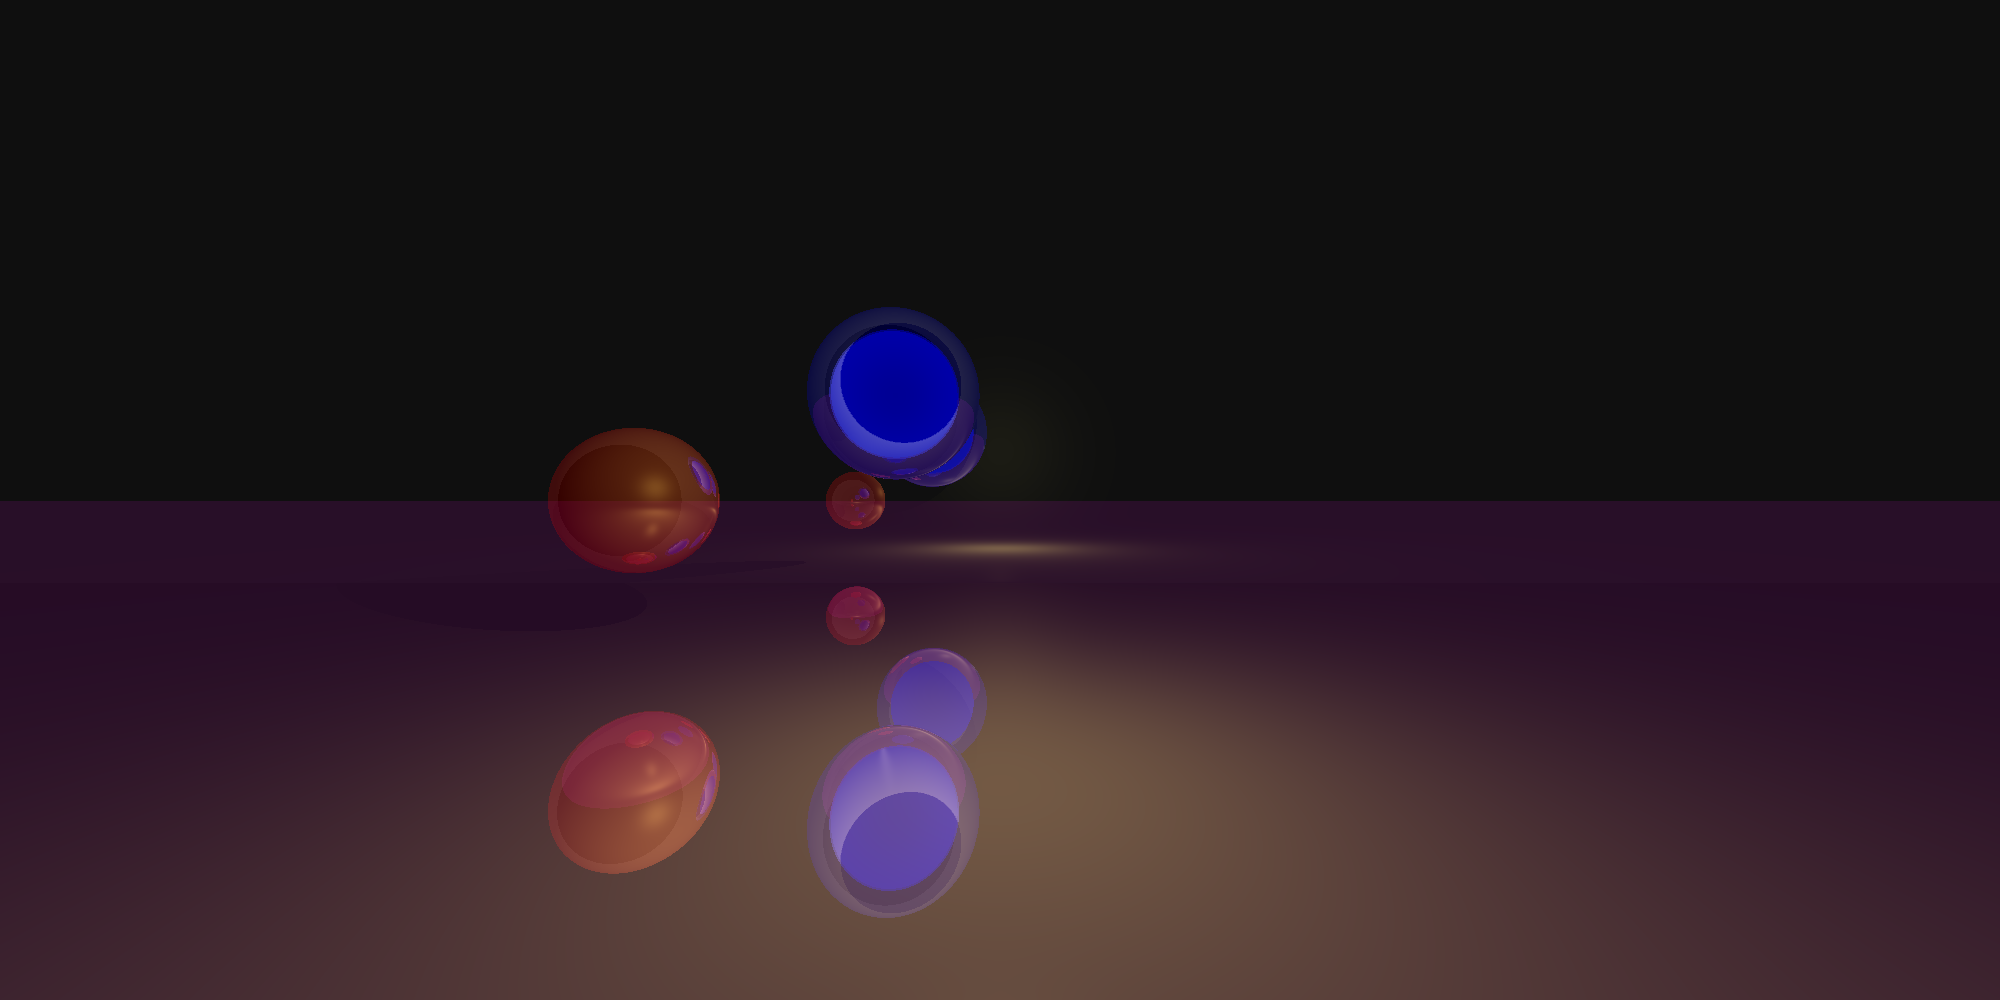
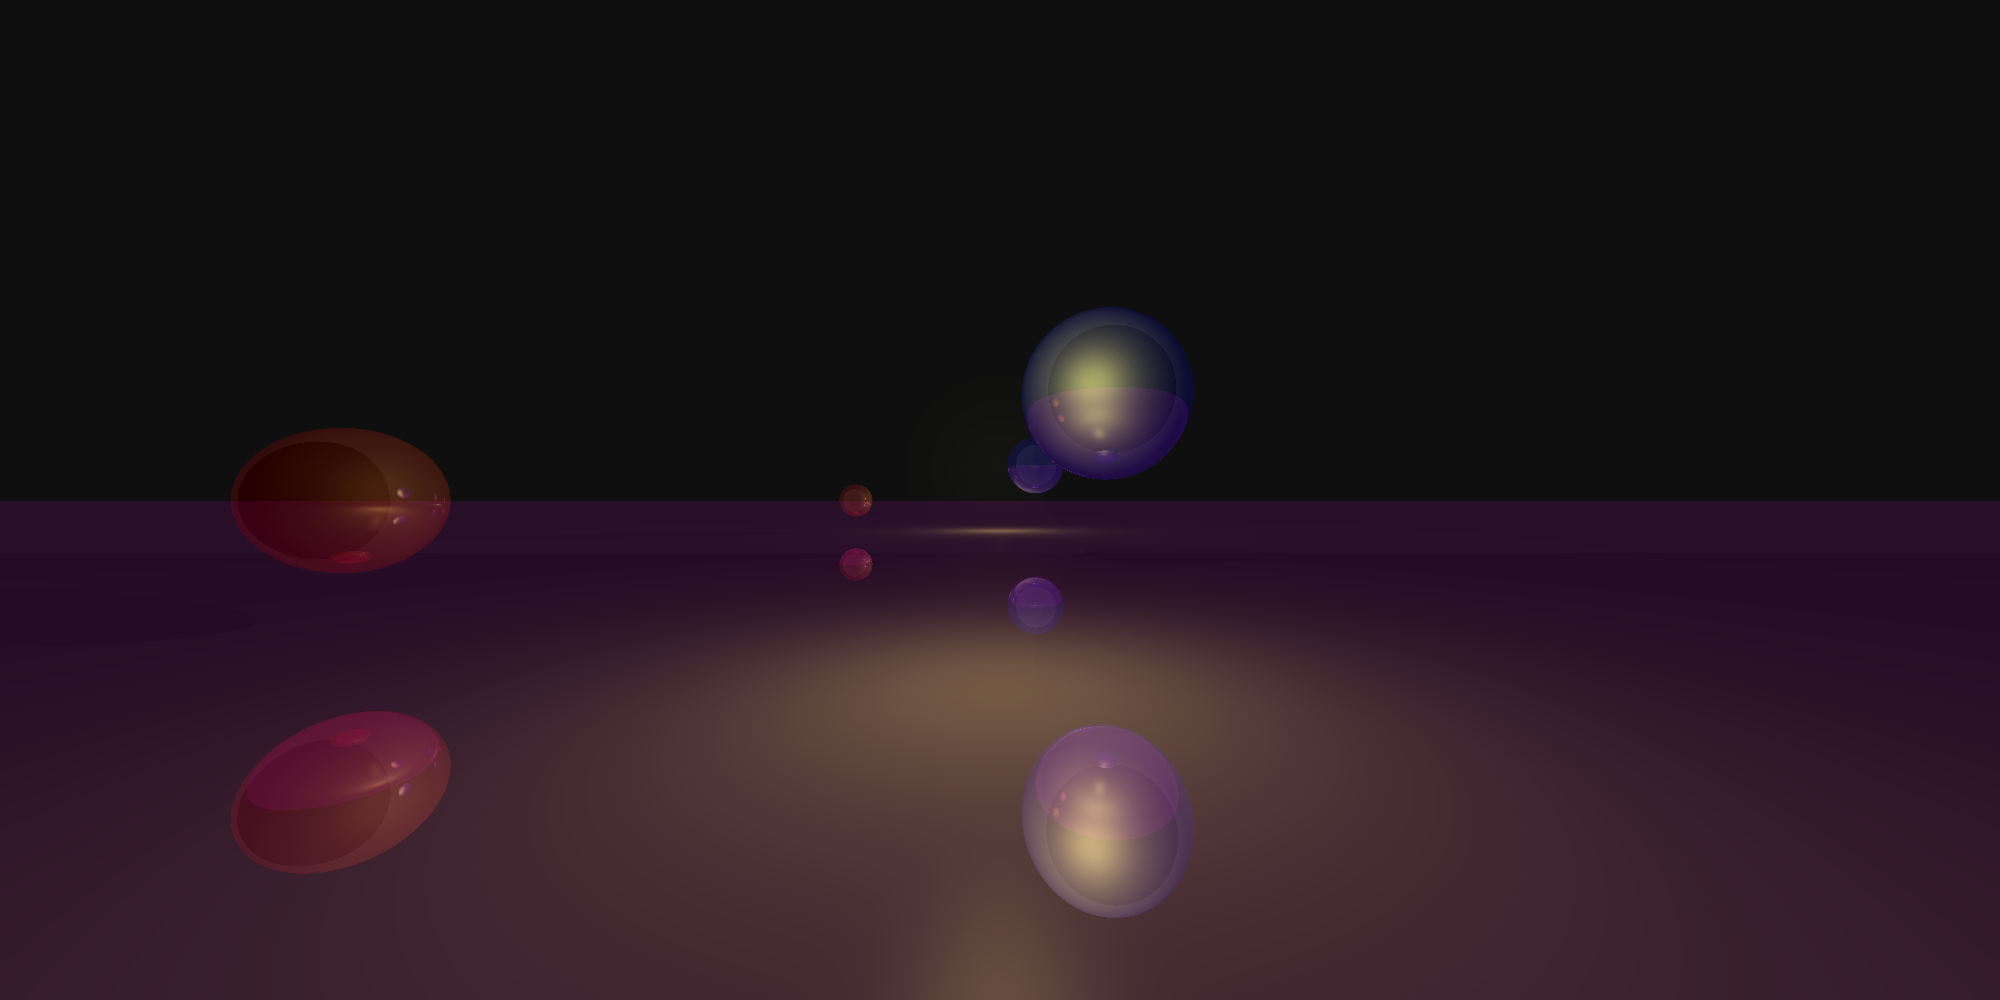
Intersection and lighting problem fixed

Changed region(s): [[0.31, 0.31, 0.682, 1.0], [0.093, 0.403, 0.372, 0.589], [0.093, 0.713, 0.372, 0.868]]

diff --git a/scene_dump.c b/scene_dump.c
@@ -6,13 +6,13 @@
 int main() {
     /* Red sphere and blue sphere*/
     rsphere spheres[2];
-    spheres[0].origin       =   (cl_float3){.x = 2.5f, .y = 1.0f, .z = 3.0f};
+    spheres[0].origin       =   (cl_float3){.x = 4.5f, .y = 1.0f, .z = 3.0f};
     spheres[0].radius       =   0.5f;
     spheres[0].material     =   plastic;
     spheres[0].material.rgb =   (cl_float3){.x = 1.0f, .y = 0.0f, .z = 0.0f};
 
 
-    spheres[1].origin       =   (cl_float3){.x = 1.0f, .y = 2.0f, .z = 4.5f};
+    spheres[1].origin       =   (cl_float3){.x = -1.0f, .y = 2.0f, .z = 4.5f};
     spheres[1].radius       =   0.8f;
     spheres[1].material     =   plastic;
     spheres[1].material.rgb =   (cl_float3){.x = 0.0f, .y = 0.0f, .z = 1.0f};
@@ -27,14 +27,14 @@ int main() {
     planes[0].material.shininess = 100;
 
 
-    planes[1].point_in_plane=   (cl_float3){.x = 0.0f, .y = 0.0f, .z = 6.0f};
+    planes[1].point_in_plane=   (cl_float3){.x = 0.0f, .y = 0.0f, .z = 10.0f};
     planes[1].normal        =   (cl_float3){.x = 0.0f, .y = 0.0f, .z = -1.0f};
     planes[1].material      =   mirror;
 
 
     /* Light yellow light source*/
     rlight lights[2];
-    lights[0].origin           =   (cl_float3){.x = 0.0f, .y = 2.0f, .z = 1.0f};
+    lights[0].origin           =   (cl_float3){.x = 0.0f, .y = 2.0f, .z = 2.0f};
     lights[0].intensity        =   2.0f;
     lights[0].radius           =   0.0f;
     lights[0].rgb              =   (cl_float3){.x = 1.0f, .y = 1.0f, .z = 0.4f};

diff --git a/src/cpu_obj.c b/src/cpu_obj.c
@@ -4,13 +4,13 @@
 
 const rmaterial plastic = { .rgb            = (cl_float3){.x = 1.0f, .y = 1.0f, .z = 1.0f},
 
-                            .ambient        = 0.20,
+                            .ambient        = 0.15,
                             .diffuse        = 0.6,
                             .specular       = 0.6,
-                            .shininess      = 50,
+                            .shininess      = 10,
 
                             .transperent    = CL_FALSE,
-                            .fresnel        = 0.8, };
+                            .fresnel        = 0.8f, };
 
 const rmaterial mirror = {  .rgb            = (cl_float3){.x = 0.2f, .y = 0.2f, .z = 0.2f},
                             .ambient        = 0.3f,

diff --git a/main.c b/main.c
@@ -10,7 +10,7 @@
 int main() {
     rcamera camera = rinit_camera(
         (cl_float3){.x = 0.0f, .y = 1.0f, .z = -1.0f},
-        (cl_float3){.x = 0.0f, .y = 0.0f, .z = 1.0f},
+        (cl_float3){.x = 0.0f, .y = -0.0f, .z = 1.0f},
         120.0f, 1.0f
     );
 
